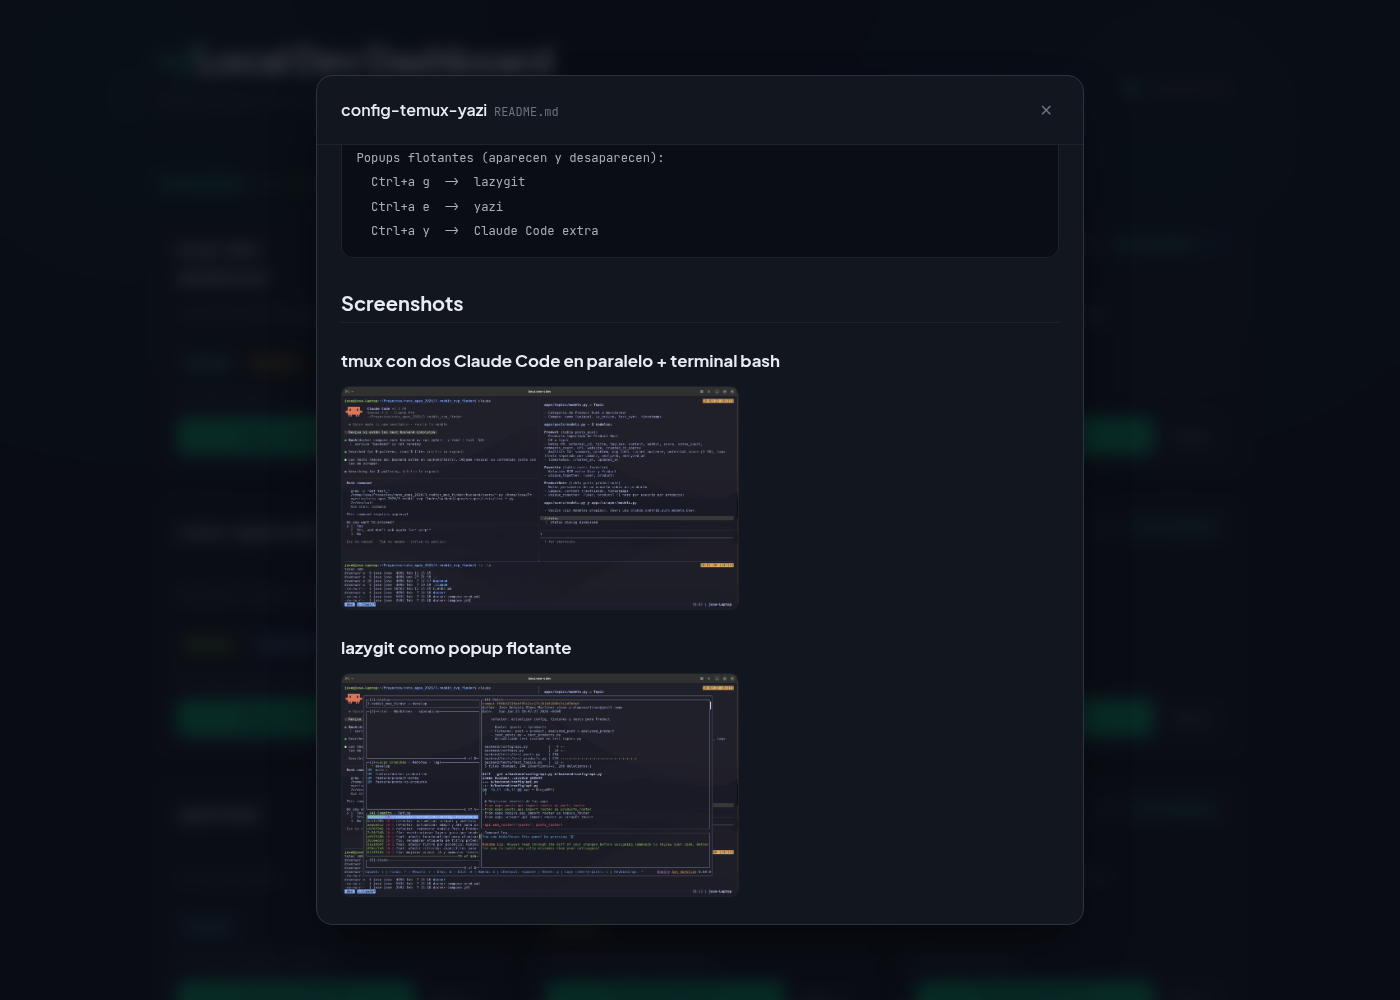
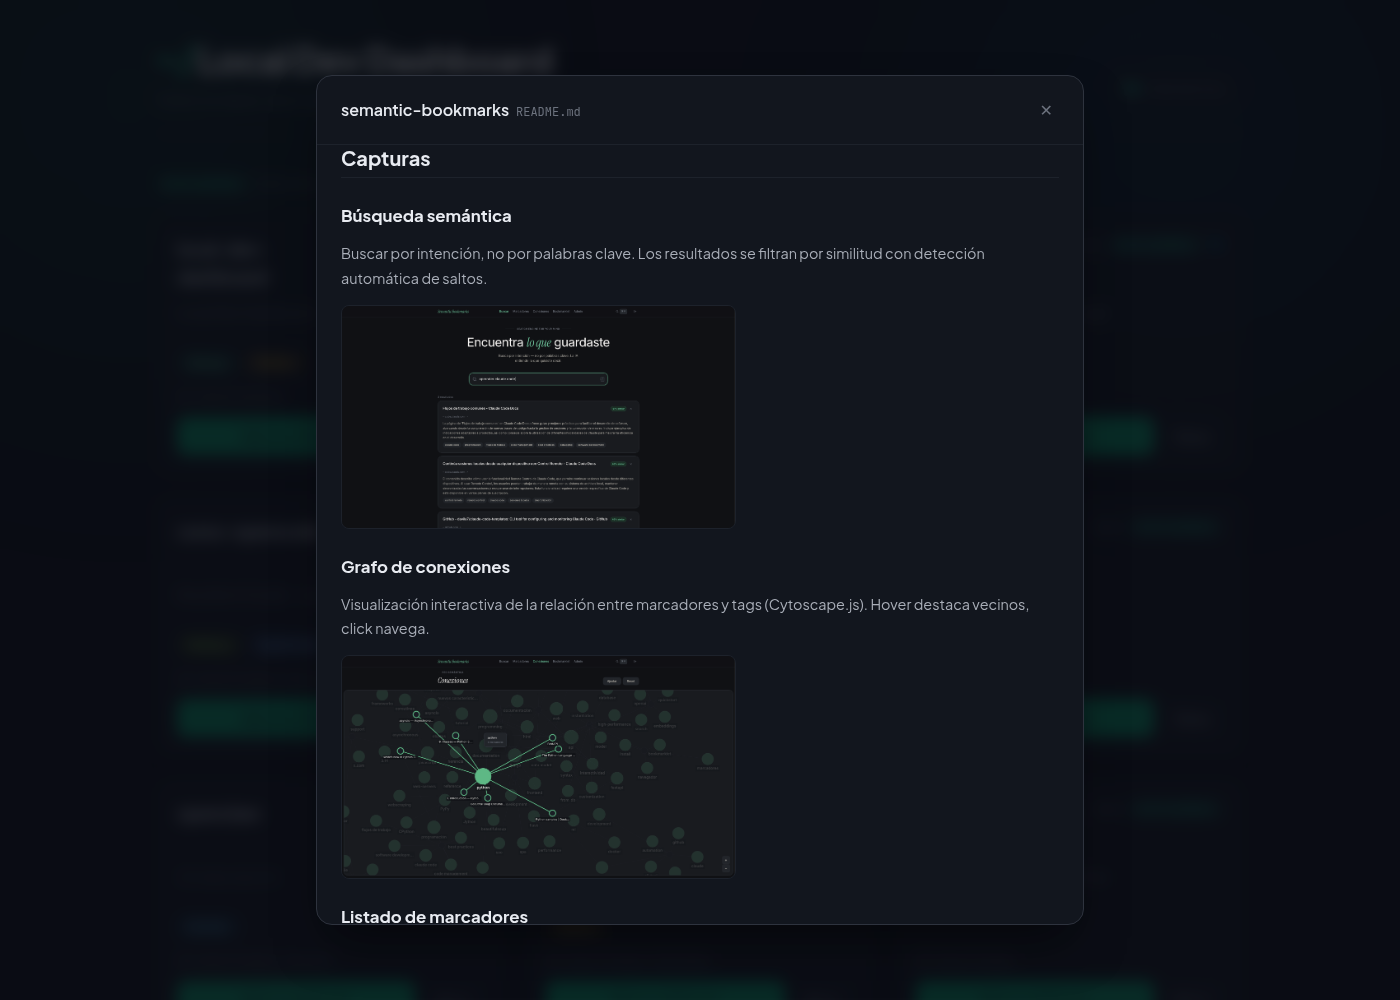
docs: usar semantic-bookmarks en la captura del modal
Es una aplicación real, así que su readme luce mejor el renderizado que unas
notas de configuración. De paso cubre rutas de imagen anidadas (docs/screenshots/).

Changed region(s): [[0.2457, 0.341, 0.7371, 0.93], [0.2457, 0.155, 0.7064, 0.31], [0.2457, 0.093, 0.3993, 0.124]]

diff --git a/README.md b/README.md
@@ -25,7 +25,7 @@ desplegar a producción. Está pensada y probada **para Linux**.
 
 El botón "Docs" de cada tarjeta abre el README sin salir del panel:
 
-![El README de un proyecto abierto en el modal, con sus capturas como miniaturas](screenshots/readme-modal.png)
+![El README de semantic-bookmarks abierto en el modal, con sus capturas como miniaturas](screenshots/readme-modal.png)
 
 ## Requisitos
 